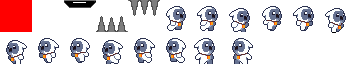
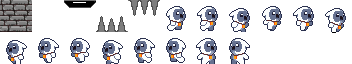
Añadidos Tiles nuevos, animaciones y comentarios

Changed region(s): [[0.5312, 0.5938, 0.7188, 1.0], [0.0, 0.0, 0.0938, 0.5], [0.3125, 0.2812, 0.3438, 0.3125]]

diff --git a/PROYECTO_FINAL/js/game - copia.js b/PROYECTO_FINAL/js/game - copia.js
@@ -9,8 +9,7 @@ Game.prototype = {
     constructor: Game
 }
 
-
-//////////////////////////////////////////////////////////OBJETO TILE SET/////////////////////////////////////////////////////////////////////
+//Tile set
 Game.TileSet = function(tile_size, columnas) {
 
     this.tile_size = tile_size;
@@ -40,9 +39,6 @@ Game.TileSet.Frame = function(x, y, width, height) {
 }
 Game.TileSet.Frame.prototype = { constructor: Game.TileSet.Frame };
 
-
-
-////////////////////////////////////////////////////////OBJETO WORLD/////////////////////////////////////////////////////////////////////
 Game.World = function(friccion = 0.10, gravedad = 2) {
 
     this.collider = new Game.Collider();
@@ -107,7 +103,6 @@ Game.World.prototype = {
         this.collider.collide(value, o, dcha * this.tile_set.tile_size, abajo * this.tile_set.tile_size, this.tile_set.tile_size);
     },
 
-    //funcion de actualizar el mundo
     update: function() {
 
         //actualizar por friccion y gravedad
@@ -122,31 +117,31 @@ Game.World.prototype = {
     }
 }
 
-///////////////////////////////////////////////////////////////////////////// COLISIONES /////////////////////////////////////////////////////////////////////////////
 //controla las colisiones dependiendo del tile que sea (por ejemplo si colisiona con pinchos, bloques etc)
 Game.Collider = function() {
-        //colisiones dependiendo del bloque que sea
-        this.collide = function(value, object, tile_x, tile_y, tile_size) {
-            switch (value) {
-                case 0:
-                    if (this.colisionSuperior(object, tile_y)) return;
-                    if (this.colisionIzq(object, tile_x)) return;
-                    if (this.colisionDcha(object, tile_x + tile_size)) return;
-                    this.colisionInferior(object, tile_y + tile_size);
-                    break;
-                case 2:
-                    this.colisionSuperior(object, tile_y);
-                    break;
-                case 3:
-                    this.colisionPinchosSup(object, tile_y - tile_size / 2.5)
-                    break;
-                case 4:
-                    this.colisionPinchosInf(object, tile_y + (tile_size / 2.5))
-                    break;
-            }
+    //colisiones dependiendo del bloque que sea
+    this.collide = function(value, object, tile_x, tile_y, tile_size) {
+        switch (value) {
+            case 0:
+                if (this.colisionSuperior(object, tile_y)) return;
+                if (this.colisionIzq(object, tile_x)) return;
+                if (this.colisionDcha(object, tile_x + tile_size)) return;
+                this.colisionInferior(object, tile_y + tile_size);
+                break;
+            case 2:
+                this.colisionSuperior(object, tile_y);
+                break;
+            case 3:
+                this.colisionPinchosSup(object, tile_y - tile_size / 2)
+                break;
+            case 4:
+                this.colisionPinchosInf(object, tile_y + (tile_size / 3.5))
+                break;
         }
     }
-    //funciones para cada tipo de colision
+}
+
+//funciones para cada tipo de colision
 Game.Collider.prototype = {
     constructor: Game.Collider,
 
@@ -191,14 +186,12 @@ Game.Collider.prototype = {
         return false;
     },
 
-    //Pinchos superiores
     colisionPinchosSup: function(o, tile_inf) {
         if (o.getArriba() > tile_inf && o.getArribaAux() <= tile_inf) {
             o.perderVida();
         }
         return false;
     },
-    //Pinchos inferiores
     colisionPinchosInf: function(o, tile_inf) {
         if (o.getArriba() < tile_inf && o.getArribaAux() >= tile_inf) {
             o.perderVida();
@@ -207,9 +200,7 @@ Game.Collider.prototype = {
     }
 }
 
-
-
-///////////////////////////////////////////////////////////////////////////// CONSTRUCTOR OBJETO /////////////////////////////////////////////////////////////////////////////
+//constructor Objeto
 Game.Object = function(x, y, width, height) {
     this.height = height;
     this.width = width;
@@ -274,9 +265,6 @@ Game.Object.prototype = {
     },
 }
 
-
-
-///////////////////////////////////////////////////////////////////////////// OBJETO ANIMACIONES /////////////////////////////////////////////////////////////////////////////
 Game.Object.Animator = function(frame_set, delay) {
     this.count = 0;
     if (delay >= 1) {
@@ -291,7 +279,7 @@ Game.Object.Animator = function(frame_set, delay) {
 Game.Object.Animator.prototype = {
     constructor: Game.Object.Animator,
 
-    //
+    //funcion para animar dependiendo si se está moviendo o no
     animar: function() {
         if (this.moving) {
             this.animacion();
@@ -299,19 +287,16 @@ Game.Object.Animator.prototype = {
     },
 
     //setear el nuevo array de frames
-    setFrame(frame_set, moving, delay = 10, f_index = 0) {
-
+    setFrame(frame_set, moving, delay = 20, f_index = 0) {
         if (this.frame_set === frame_set) { return; }
-
         this.count = 0;
         this.delay = delay;
-        this.frame_set = frame_set;
         this.f_index = f_index;
         this.f_value = frame_set[f_index];
         this.moving = moving;
     },
 
-    //funcion para recorrer el array de frames en bucle para los movimientos horizontales
+    //funcion para recorrer el array de frames en bucle
     animacion: function() {
         this.count++;
         while (this.count > this.delay) {
@@ -329,7 +314,7 @@ Game.Object.Animator.prototype = {
 //constructor Personaje
 Game.Object.Personaje = function() {
     Game.Object.call(this, 35, 450, 21, 26);
-    Game.Object.Animator.call(this, Game.Object.Personaje.prototype.frames["quieto-dcha"]);
+    Game.Object.Animator.call(this, Game.Object.Personaje.prototype.frames["quieto-dcha"], 10);
     this.vx = 0;
     this.vy = 0;
     this.saltando = true;
@@ -350,7 +335,7 @@ Game.Object.Personaje.prototype = {
         //arrays animaciones hacia la izquierda
         "quieto-izq": [7],
         "moviendose-izq": [8, 9, 10, 11, 12, 13],
-        "saltando-izq": [11],
+        "saltando-izq": [10],
     },
 
     //funcion saltar
@@ -392,6 +377,7 @@ Game.Object.Personaje.prototype = {
     //funcion de animar al personaje
     animarPersonaje: function() {
 
+
         if (this.vy < 0) {
             if (this.ladomira < 0) {
                 this.setFrame(this.frames["saltando-izq"], false);
@@ -400,19 +386,19 @@ Game.Object.Personaje.prototype = {
             }
         } else if (this.ladomira < 0) {
             if (this.vx < -0.1) {
-                this.setFrame(this.frames["moviendose-izq"], true, 3);
+                this.setFrame(this.frames["moviendose-izq"], true, 5);
             } else {
                 this.setFrame(this.frames["quieto-izq"], false);
             }
         } else if (this.ladomira > 0) {
             if (this.vx > 0.1) {
-                this.setFrame(this.frames["moviendose-dcha"], true, 3);
+                this.setFrame(this.frames["moviendose-dcha"], true, 5);
             } else {
                 this.setFrame(this.frames["quieto-dcha"], false);
             }
         }
-        this.animar();
 
+        this.animar();
     }
 }
 

diff --git a/PROYECTO_FINAL/js/main.js b/PROYECTO_FINAL/js/main.js
@@ -1,4 +1,4 @@
-window.addEventListener("load", function(event) {
+window.addEventListener("load", function() {
     var keyDownUp = function(event) {
             controller.keyDownUp(event.type, event.keyCode);
         }
@@ -11,7 +11,8 @@ window.addEventListener("load", function(event) {
         //renderizado
     var render = function() {
             display.dibujaMapa(loader.tile_set_image, game.world.tile_set.columnas, game.world.mapa, game.world.columnas, game.world.tile_set.tile_size);
-            display.dibujaPersonaje(game.world.personaje, game.world.personaje.color1, game.world.personaje.color2);
+            let frame_personaje = game.world.tile_set.array_frames[game.world.personaje.f_value];
+            display.dibujaObjeto(loader.tile_set_image, frame_personaje.x, frame_personaje.y, game.world.personaje.x, game.world.personaje.y, frame_personaje.width, frame_personaje.height);
             display.dibujaSierra(game.world.sierra, "#A9A9A9", "#C0C0C0");
             display.render();
         }
@@ -45,7 +46,6 @@ window.addEventListener("load", function(event) {
     var engine = new Engine(1000 / 30, render, update);
 
     //cargar
-
     loader.rqJSON("json/nivel" + game.world.id_nivel + ".json", (nivel) => {
         game.world.cargarNivel(nivel);
 
@@ -58,6 +58,7 @@ window.addEventListener("load", function(event) {
 
     display.buffer.canvas.height = game.world.height;
     display.buffer.canvas.width = game.world.width;
+    display.buffer.imageSmoothingEnabled = false;
 
     window.addEventListener("keydown", keyDownUp);
     window.addEventListener("keyup", keyDownUp);

diff --git a/PROYECTO_FINAL/js/display.js b/PROYECTO_FINAL/js/display.js
@@ -19,14 +19,9 @@ const Display = function(canvas) {
 
         }
         //funcion de dibujar el personaje 
-    this.dibujaPersonaje = function(p, color1, color2) {
-        this.context.beginPath();
-        this.buffer.fillStyle = color1;
-        this.buffer.fillRect(Math.round(p.x), Math.round(p.y), p.width, p.height);
-        this.buffer.fillStyle = color2;
-        this.buffer.fillRect(Math.round(p.x + 2), Math.round(p.y + 2), p.width - 4, p.height - 4);
-        this.context.stroke();
+    this.dibujaObjeto = function(img, origen_x, origen_y, destino_x, destino_y, width, height) {
 
+        this.buffer.drawImage(img, origen_x, origen_y, width, height, Math.round(destino_x), Math.round(destino_y), width, height);
     }
 
     this.dibujaSierra = function(objeto, c1, c2) {
@@ -52,6 +47,7 @@ const Display = function(canvas) {
     }
 
     this.gameOver = function() {
+
         alert("Game Over");
     }
 }
